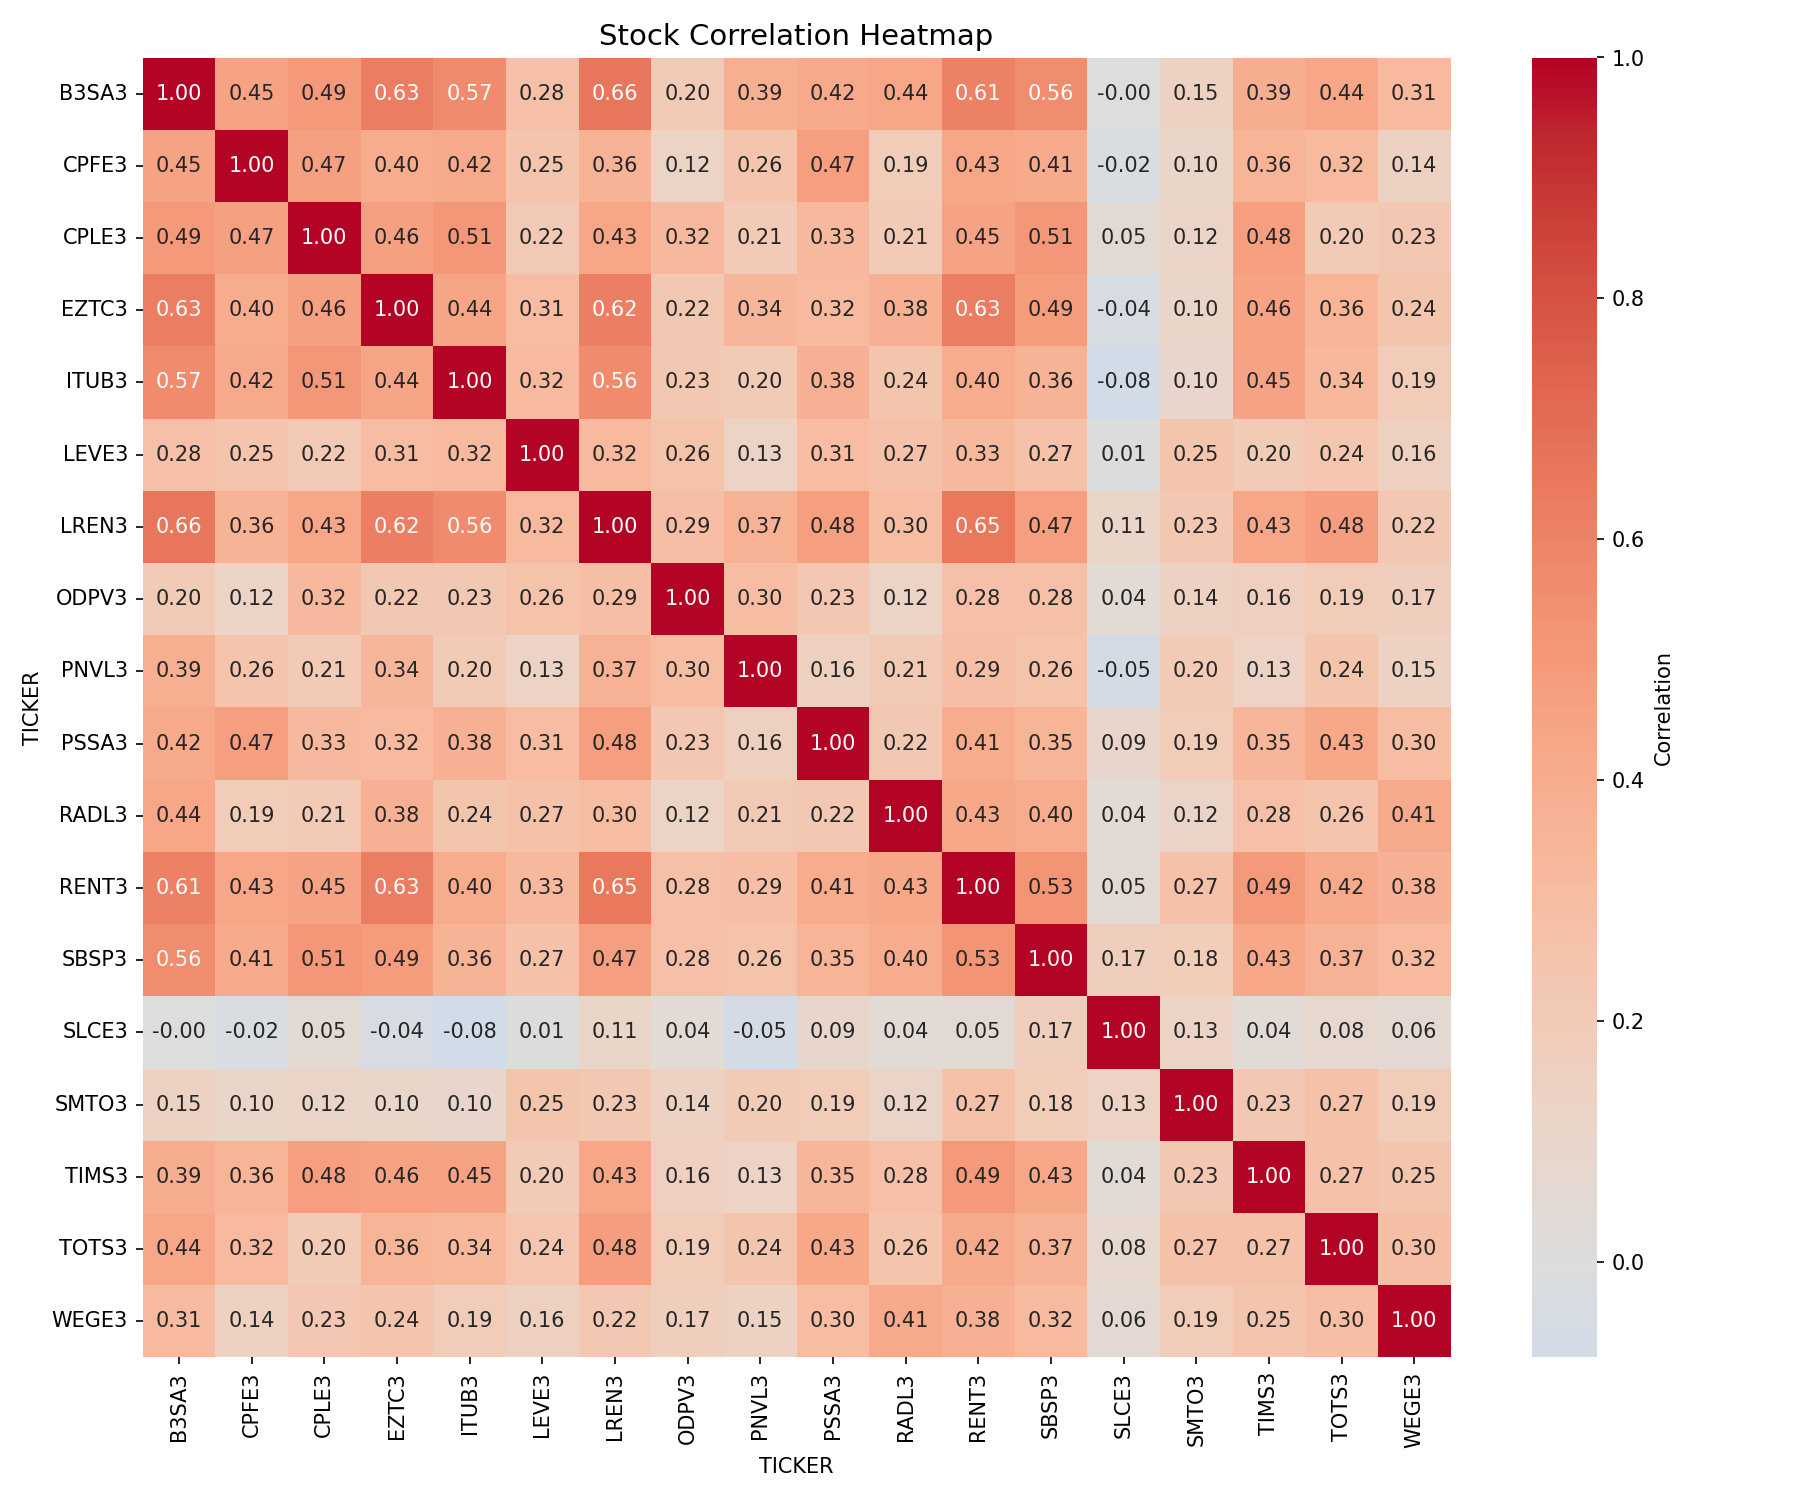
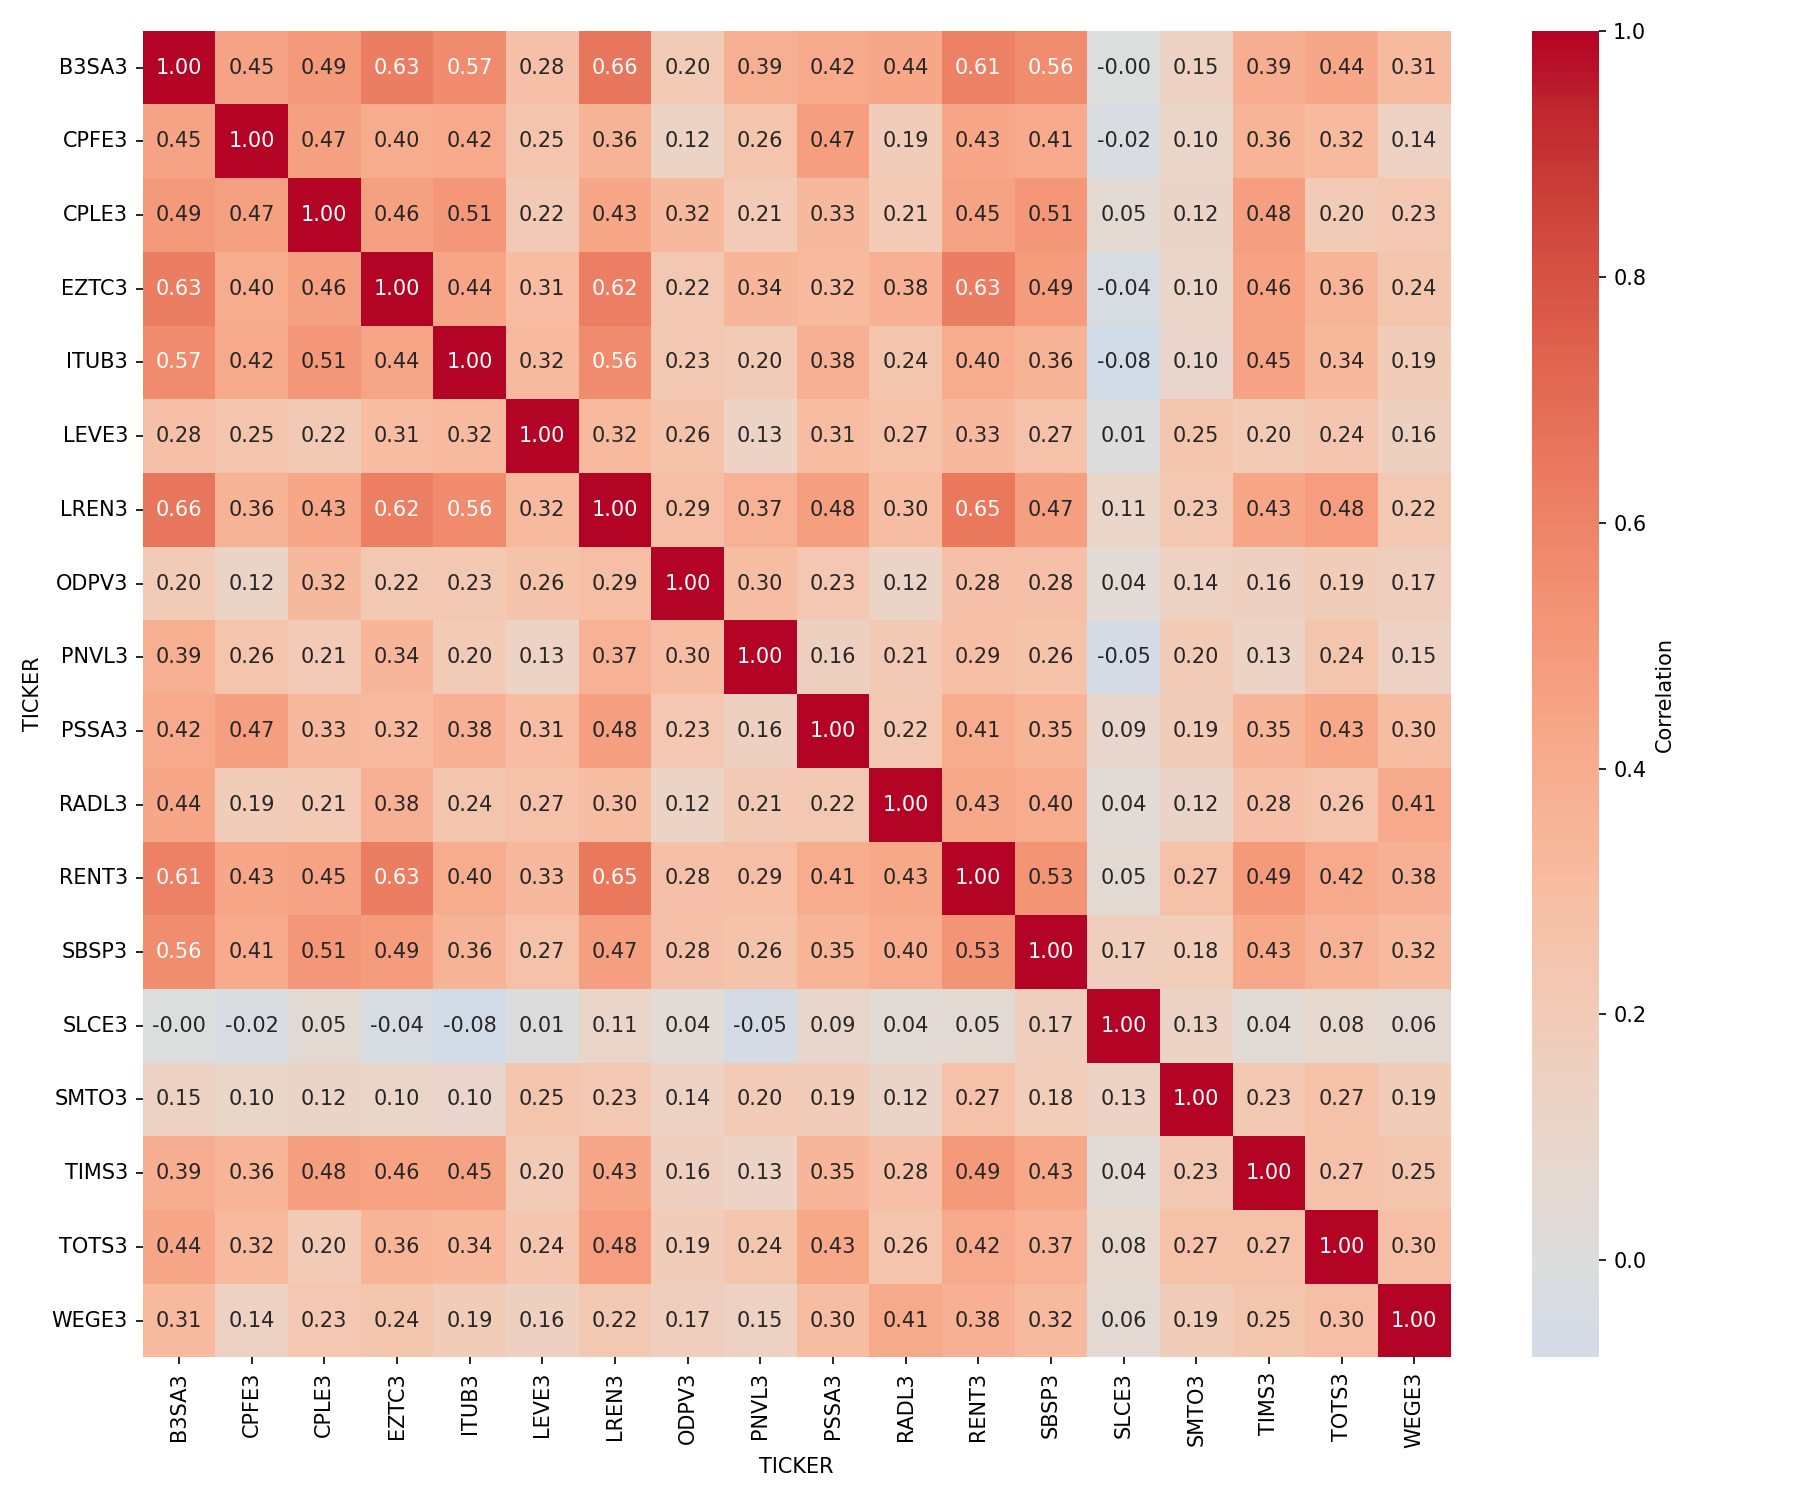
proportional weights

diff --git a/optimizer.py b/optimizer.py
@@ -27,6 +27,7 @@ price_data = [
     {"TICKER": row["TICKER"], "DATA": price_entry["DATA"], "PRECO": price_entry["PRECO"]}
     for _, row in df.iterrows() for price_entry in row["COTACAO 10Y AJUSTADA"]
 ]
+
 price_p = pd.DataFrame(price_data).pivot_table(index="DATA", columns="TICKER", values="PRECO", aggfunc="last")
 price_p.index = pd.to_datetime(price_p.index, dayfirst=True)
 
@@ -39,8 +40,7 @@ pre_selection = Pipeline([
     ("drop_zero_var", DropZeroVariance()),
     ("drop_corr", DropCorrelated(threshold=0.67, absolute=True)),
     ("select_k", SelectKExtremes(k=N_STOCKS, measure=PerfMeasure.MEAN, highest=True)),
-])
-pre_selection.fit(X_returns_candidates)
+]).fit(X_returns_candidates)
 
 steps = list(pre_selection.named_steps.values())
 selected_tickers = all_tickers
@@ -60,10 +60,9 @@ model = MeanRisk(
     risk_aversion=0.30,
     l2_coef=0.05,
     target_weights=w_base,
-    max_weights=0.08,
-    min_weights=0.033,
-)
-model.fit(X_returns_selected)
+    max_weights=100 / N_STOCKS / 100 * 1.5,
+    min_weights=100 / N_STOCKS / 100 * 0.5
+).fit(X_returns_selected)
 weights = model.weights_
 
 results = pd.DataFrame({
@@ -86,7 +85,6 @@ if generate_graphs:
     sns.heatmap(corr_matrix, cmap="coolwarm", center=0, annot=True, 
                 fmt=".2f", xticklabels=True, yticklabels=True,
                 cbar_kws={"label": "Correlation"})
-    plt.title("Stock Correlation Heatmap", fontsize=14)
     plt.tight_layout()
     plt.savefig("corr_heatmap.png", dpi=150)
     plt.close()